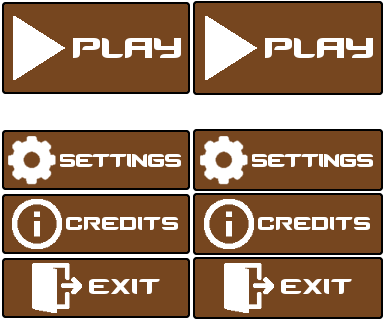
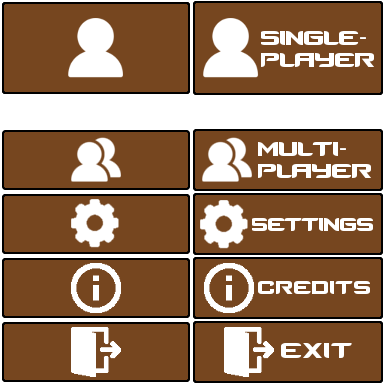
change some design

diff --git a/src/mrmathami/thegame/MenuUI.java b/src/mrmathami/thegame/MenuUI.java
@@ -26,15 +26,23 @@ public final class MenuUI {
      * IMPORTANT: Remember to maintain the add order, which affect the draw order of the UI.
      */
     private void prepareMainMenu(String path) {
-        RectMenuPane menuPane = new RectMenuPane(0, 8, 1, 4, 5.5, Color.rgb(0xCC, 0xBE, 0xA3));
-        addEntity(menuPane);
-
         try (final InputStream stream = GameUI.class.getResourceAsStream(path)) {
             if (stream == null) throw new IOException("Resource not found! Resource name: " + path);
             final Scanner scanner = new Scanner(stream);
             while (true) {
                 final String value = scanner.next();
                 if (value.equals("EndOfFile")) break;
+                else if (value.equals("RectMenuPane")) {
+                    final double x = scanner.nextDouble();
+                    final double y = scanner.nextDouble();
+                    final double w = scanner.nextDouble();
+                    final double h = scanner.nextDouble();
+                    final int r = scanner.nextInt();
+                    final int g = scanner.nextInt();
+                    final int b = scanner.nextInt();
+                    RectMenuPane menuPane = new RectMenuPane(0, x, y, w, h, Color.rgb(r, g, b));
+                    addEntity(menuPane);
+                }
                 else {
                     final double assetX = scanner.nextDouble();
                     final double assetY = scanner.nextDouble();

diff --git a/src/mrmathami/thegame/MenuController.java b/src/mrmathami/thegame/MenuController.java
@@ -224,8 +224,10 @@ public final class MenuController extends AnimationTimer {
                     && Double.compare(mousePosY, startY) >= 0 && Double.compare(mousePosY, endY) <= 0) {
                 final String command = entity.onClick();
                 switch (command) {
-                    case "PlayButton":
+                    case "SinglePlayerButton":
                         moveToGameScene();
+                        break;
+                    case "MultiPlayerButton":
                         break;
                     case "SettingsButton":
                         break;
